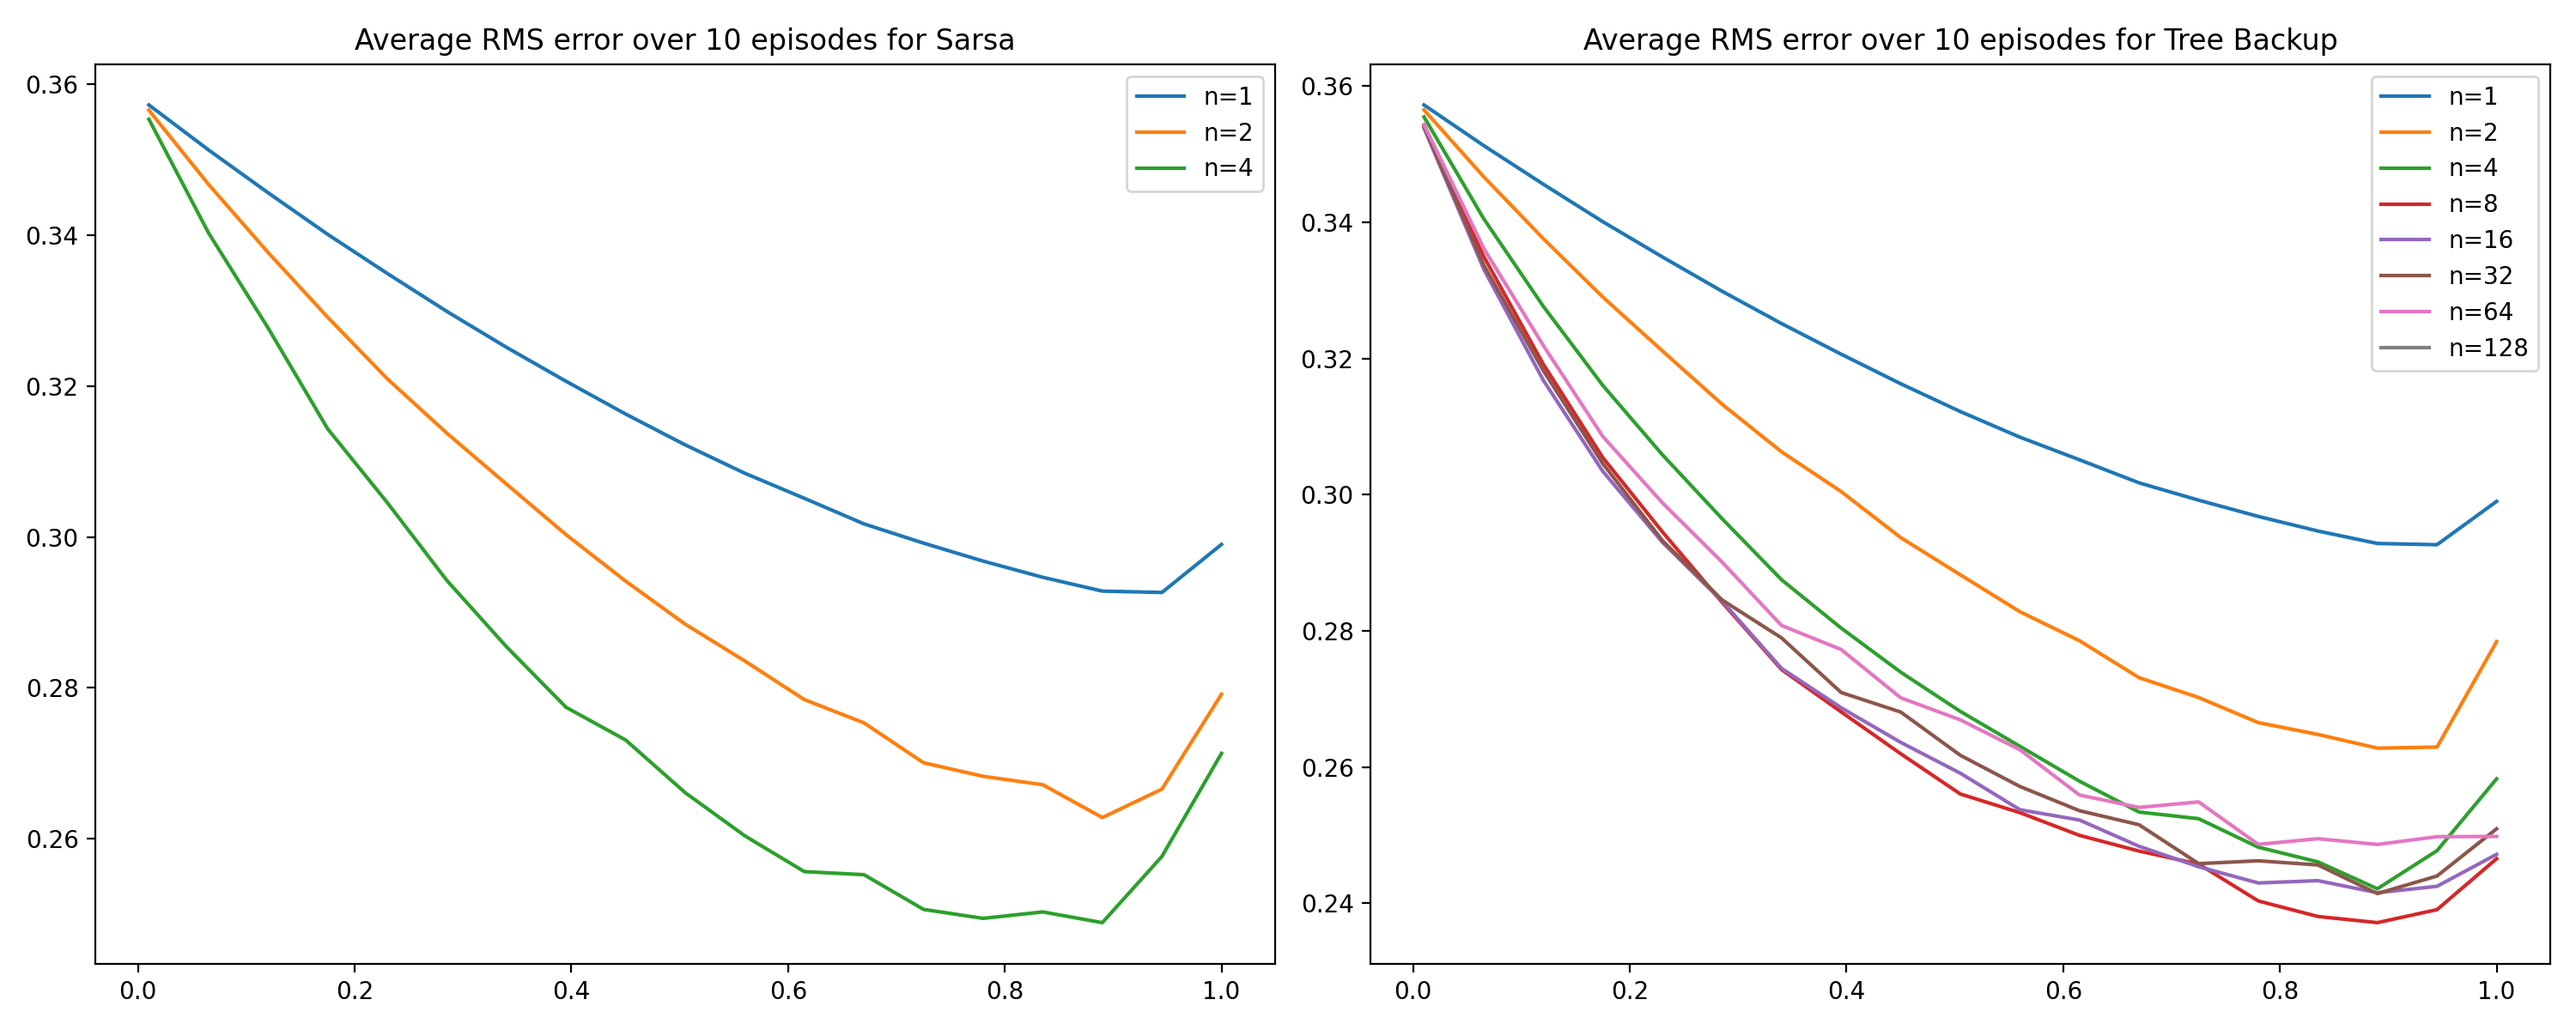
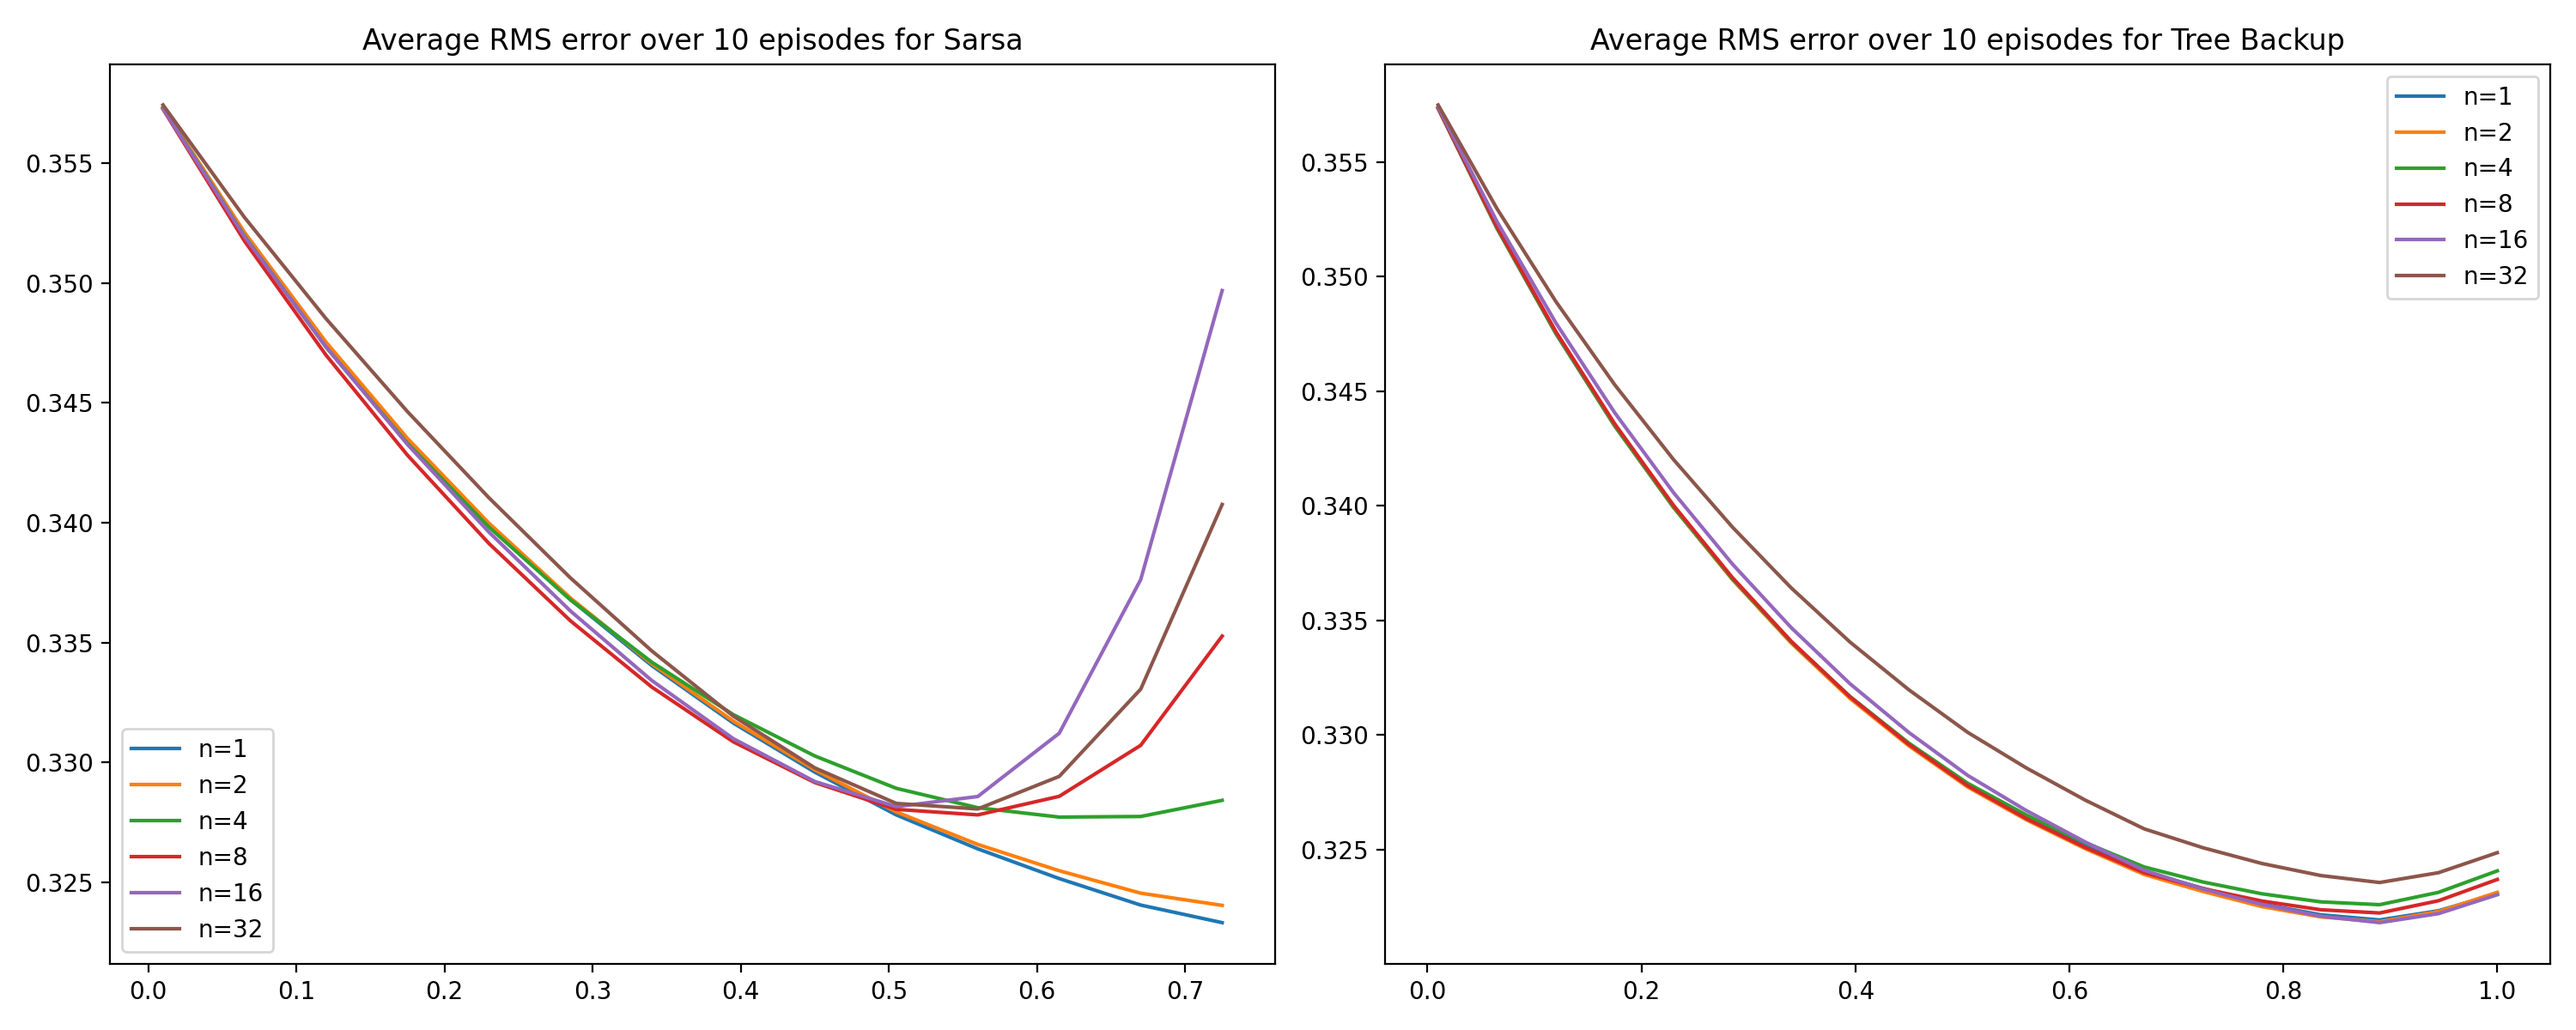
README.md image

diff --git a/algorithms/td/nqs.py b/algorithms/td/nqs.py
@@ -267,12 +267,12 @@ def get_kernel(
                     Q=Q,
                 )
 
-                done = tau == (T - 1)
+                done = done | (tau == (T - 1))
 
                 return pi, Q, S, A, R, rho, sigmas, T, done
 
             pi, Q, S, A, R, rho, sigmas, T, done = jax.lax.cond(
-                (tau >= 0) & (~done),
+                (tau >= 0) & (tau < T) & (~done),
                 update_step,
                 lambda args: args,
                 (pi, Q, S, A, R, rho, sigmas, T, done),
